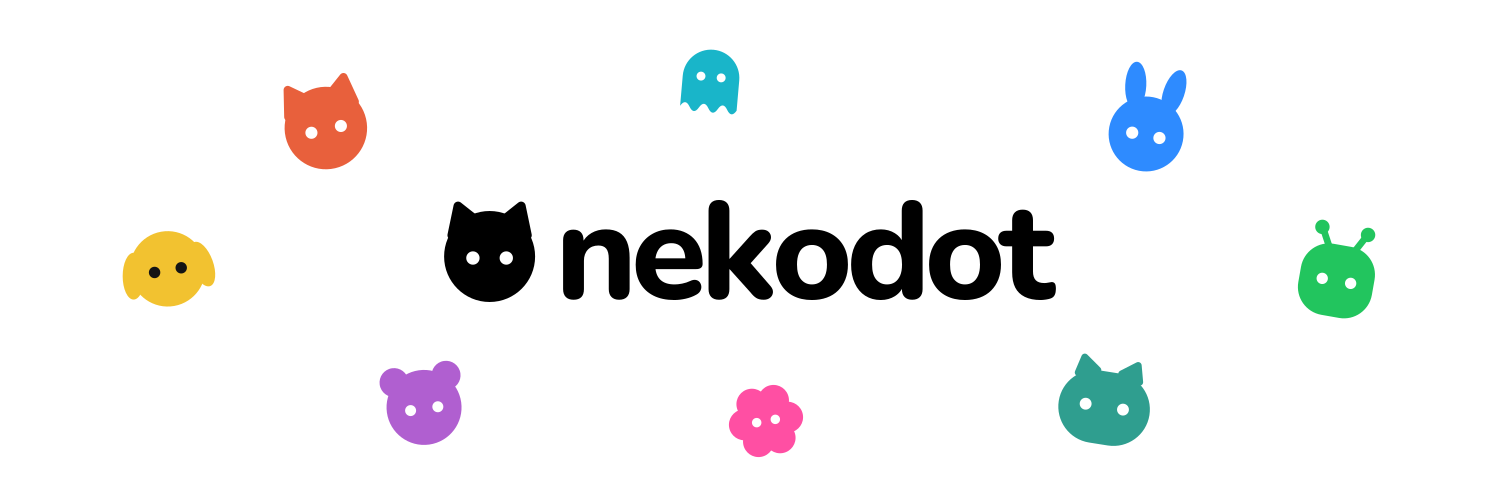
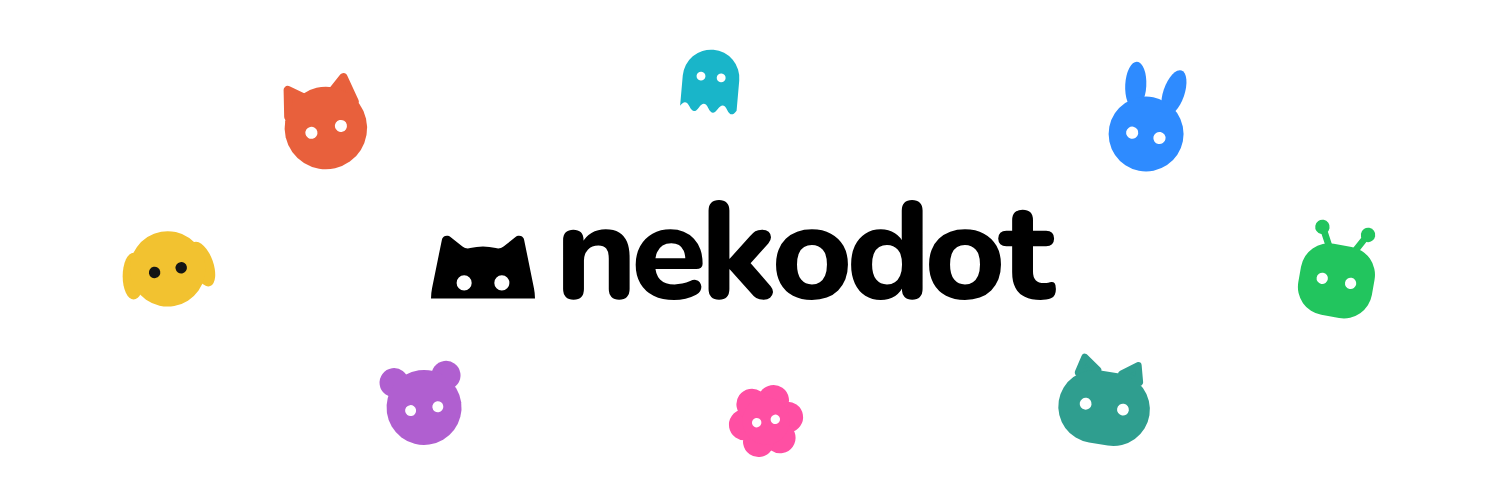
feat: nekodot's mark is a cat peeking over an edge
The app icon on Windows, Android and macOS, the tray icon, the mark on
the login pages and at the head of the rail, and the README and X
pictures all show the new mark: a black cat on a white dot.

Changed region(s): [[0.276, 0.39, 0.368, 0.6]]

diff --git a/apps/native/lib/ui/brand_mark.dart b/apps/native/lib/ui/brand_mark.dart
@@ -1,0 +1,31 @@
+import 'package:flutter/material.dart';
+import 'package:flutter_svg/flutter_svg.dart';
+
+import 'design.dart';
+
+/// nekodot's own mark: a cat peeking over an edge, its eyes cut through. It
+/// spans the width of a square of [size], in [color] or the ink of the theme.
+class BrandMark extends StatelessWidget {
+  final double size;
+  final Color? color;
+  const BrandMark({super.key, required this.size, this.color});
+
+  // The outline, then the two eyes; the same drawing as the app's icon.
+  static const _drawing =
+      '<svg xmlns="http://www.w3.org/2000/svg" viewBox="9 20 82 55">'
+      '<path fill-rule="evenodd" d="'
+      'M10.80 66.03L18.35 28.94A4.00 4.00 0 0 1 24.73 26.58L34.19 33.97A6.93 6.93 0 0 0 40.16 35.23A40.00 40.00 0 0 1 59.84 35.23A6.93 6.93 0 0 0 65.81 33.97L75.27 26.58A4.00 4.00 0 0 1 81.65 28.94L89.20 66.03A40.00 40.00 0 0 1 90.00 74.00L10.00 74.00A40.00 40.00 0 0 1 10.80 66.03Z'
+      'M29.7 62a5.8 5.8 0 1 0 11.6 0a5.8 5.8 0 1 0 -11.6 0Z'
+      'M58.7 62a5.8 5.8 0 1 0 11.6 0a5.8 5.8 0 1 0 -11.6 0Z'
+      '"/></svg>';
+
+  @override
+  Widget build(BuildContext context) => SizedBox.square(
+    dimension: size,
+    child: SvgPicture.string(
+      _drawing,
+      colorFilter: ColorFilter.mode(color ?? context.tone.ink, BlendMode.srcIn),
+      excludeFromSemantics: true,
+    ),
+  );
+}

diff --git a/apps/native/test/brand_mark_test.dart b/apps/native/test/brand_mark_test.dart
@@ -1,0 +1,30 @@
+import 'package:flutter/material.dart';
+import 'package:flutter_svg/flutter_svg.dart';
+import 'package:flutter_test/flutter_test.dart';
+import 'package:nekodot_native/ui/auth_layout.dart';
+import 'package:nekodot_native/ui/brand_mark.dart';
+import 'package:nekodot_native/ui/design.dart';
+
+void main() {
+  testWidgets('the wordmark carries nekodot\'s mark in the theme\'s ink', (
+    tester,
+  ) async {
+    await tester.pumpWidget(
+      MaterialApp(
+        theme: appTheme(Brightness.light),
+        home: const Center(child: AuthWordmark()),
+      ),
+    );
+    await tester.pumpAndSettle();
+    final mark = tester.widget<SvgPicture>(
+      find.descendant(
+        of: find.byType(BrandMark),
+        matching: find.byType(SvgPicture),
+      ),
+    );
+    final ink = tester.element(find.byType(BrandMark)).tone.ink;
+    expect(mark.colorFilter, ColorFilter.mode(ink, BlendMode.srcIn));
+    expect(tester.getSize(find.byType(BrandMark)), const Size(28, 28));
+    expect(tester.takeException(), isNull);
+  });
+}

diff --git a/apps/native/lib/features/home_rail.dart b/apps/native/lib/features/home_rail.dart
@@ -1,6 +1,7 @@
 import 'package:flutter/material.dart';
 
 import '../platform/desktop.dart';
+import '../ui/brand_mark.dart';
 import '../ui/design.dart';
 
 /// Where home can go. `recent` mixes every conversation and space by when it
@@ -85,7 +86,7 @@ class HomeRail extends StatelessWidget {
               const SizedBox(height: 12),
               const SizedBox(
                 height: 34,
-                child: Center(child: CatAvatar(color: '#ffffff', size: 26)),
+                child: Center(child: BrandMark(size: 26, color: Colors.white)),
               ),
               const SizedBox(height: 8),
               SizedBox(

diff --git a/apps/native/lib/ui/auth_frame.dart b/apps/native/lib/ui/auth_frame.dart
@@ -2,6 +2,7 @@ import 'dart:math' as math;
 
 import 'package:flutter/material.dart';
 
+import 'brand_mark.dart';
 import 'design.dart';
 
 class AuthFrame extends StatelessWidget {
@@ -30,7 +31,7 @@ class AuthFrame extends StatelessWidget {
                         children: [
                           const Row(
                             children: [
-                              CatAvatar(size: 30),
+                              BrandMark(size: 30),
                               SizedBox(width: 10),
                               Text(
                                 'nekodot',

diff --git a/apps/native/lib/ui/auth_layout.dart b/apps/native/lib/ui/auth_layout.dart
@@ -2,6 +2,7 @@ import 'dart:math' as math;
 
 import 'package:flutter/material.dart';
 
+import 'brand_mark.dart';
 import 'design.dart';
 
 /// Shared account-page composition; authentication remains in the feature.
@@ -78,7 +79,7 @@ class AuthWordmark extends StatelessWidget {
   Widget build(BuildContext context) => Row(
     mainAxisSize: MainAxisSize.min,
     children: [
-      const CatAvatar(size: 28),
+      const BrandMark(size: 28),
       const SizedBox(width: 10),
       Text(
         'nekodot',

diff --git a/apps/native/lib/ui/design.dart b/apps/native/lib/ui/design.dart
@@ -746,7 +746,7 @@ MarkdownStyleSheet markdownStyle(BuildContext context, {Color? color}) {
   );
 }
 
-/// A round bot face. A null color draws the brand mark in the current ink.
+/// A round bot face. A null color draws it in the current ink.
 /// While working its ears move and its eyes scan; idle, it blinks now and then.
 class CatAvatar extends StatefulWidget {
   final String? color;
